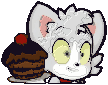
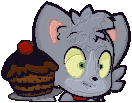
Nuevo combate: barra de vida, 3 armas + especial, chocolate; contornos 3D; Acenix gris
Claude-Session: https://claude.ai/code/session_01Sh1EJeb8KRc9zvzZMBH78N

diff --git a/mike-juego/js/game.js b/mike-juego/js/game.js
@@ -18,12 +18,27 @@ const S = {
   fade: 0, fadeAnim: null, shake: 0, hitstop: 0, cam: { x: 0, y: 0 }, boss: null, bossLock: false,
   bossStarted: false, gateOpen: false, gotLetter: false, checkpoint: [0, 0], hint: '', hintT: 0, willy: null,
   leaving: false, nearNpc: null, bossDefeated: false, stepT: 0, keys: [0, 0, 0],
-  q: { gotLetters: false, delivered: {}, count: 0, total: 7, done: false, trainStarted: false }, fav: {}, flags: {}, wave: null, camShot: null
+  q: { gotLetters: false, delivered: {}, count: 0, total: 7, done: false, trainStarted: false }, fav: {}, flags: {}, wave: null, camShot: null, shots: []
 };
 const P = {
-  x: 0, y: 0, hw: 10, hh: 12, vx: 0, vy: 0, dx: 0, dy: 1, face: 1, hp: 5, maxHp: 5, inv: 0,
+  x: 0, y: 0, hw: 10, hh: 12, vx: 0, vy: 0, dx: 0, dy: 1, face: 1, hp: 100, maxHp: 100, inv: 0, sel: 0, chocoCd: 0, dmgMul: 1, special: false, kills: 0, pend: 0, atkMax: .26,
   atk: 0, atkCd: 0, adx: 0, ady: 1, hitSet: new Set(), anim: 0, moving: false, dead: false, hitWall: false
 };
+const WEAPONS = {
+  dagger: { id: 'dagger', name: 'Dagas', icon: '🗡', type: 'CORTA', dmg: .5, cd: .17, anim: .17, wind: .05, reach: 30, R: 40 },
+  hammer: { id: 'hammer', name: 'Martillo', icon: '🔨', type: 'PESADA', dmg: 3, cd: 1.0, anim: .55, wind: .3, reach: 42, R: 64, heavy: true },
+  bow: { id: 'bow', name: 'Arco', icon: '🏹', type: 'LARGA', dmg: 1, cd: .5, anim: .25, wind: .08, ranged: true, speed: 560, life: 1.1 },
+  star: { id: 'star', name: 'Cetro Estelar', icon: '✨', type: 'ESPECIAL', dmg: 1.3, cd: .6, anim: .3, wind: .08, ranged: true, spread: 3, pierce: true, speed: 470, life: 1.3 }
+};
+const WSLOTS = () => P.special ? ['dagger', 'hammer', 'bow', 'star'] : ['dagger', 'hammer', 'bow'];
+const curW = () => WEAPONS[WSLOTS()[Math.min(P.sel, WSLOTS().length - 1)]];
+const CHOCO_CD = 30;
+function selectW(i) { if (i < 0 || i >= WSLOTS().length || i === P.sel) return; P.sel = i; sfx.select(); floater(P.x - 30, P.y - 80, curW().icon + ' ' + curW().name, '#ffe14a'); }
+function useChoco() {
+  if (P.chocoCd > 0 || P.dead || S.busy) return;
+  if (P.hp >= P.maxHp) { floater(P.x - 40, P.y - 70, '¡Vida llena!', '#fff'); return; }
+  P.hp = P.maxHp; P.chocoCd = CHOCO_CD; sfx.heal(); spawnP(P.x, P.y - 30, 26, '#8a4a22', 200, 1); spawnP(P.x, P.y - 30, 14, '#ffd24a', 160, 1); floater(P.x - 50, P.y - 70, '¡Chocolate! 100%', '#ffb070');
+}
 const pbody = () => ({ x: P.x, y: P.y - 22 });
 
 // ---------- Promesas de tiempo / diálogo (para cinemáticas) ----------
@@ -145,7 +160,7 @@ function spawnEnts(L) {
 const ebody = e => ({ x: e.x, y: e.y - (e.bh || 20) });
 function hurtPlayer(n, fx, fy) {
   if (P.inv > 0 || P.dead || S.busy) return;
-  P.hp -= n; P.inv = 1.15;
+  P.hp -= n * 14; P.inv = 1.15;
   const a = Math.atan2(P.y - fy, P.x - fx); P.vx = Math.cos(a) * 300; P.vy = Math.sin(a) * 300;
   S.shake = .25; S.hitstop = .07; sfx.hurt();
   spawnP(P.x, P.y - 20, 12, '#ff4a5a', 220);
@@ -153,16 +168,17 @@ function hurtPlayer(n, fx, fy) {
 }
 function healPlayer() { P.hp = P.maxHp; sfx.heal(); spawnP(P.x, P.y - 30, 18, '#ff7aa8', 160, .9); floater(P.x - 20, P.y - 60, '¡Pastel! ♥', '#ff9ac0'); }
 
-function hitEnt(e) {
+function hitEnt(e, dmg = 1) {
   sfx.hit();
   if (e.type === 'dummy') { e.hit = .3; floater(e.x - 20, e.y - 70, ['¡Auch!', '¡Oye!', '¡Pum!', '¿Por qué?'][Math.floor(rnd(0, 4))], '#ffe14a'); spawnP(e.x, e.y - 24, 8, '#c9a15a'); return; }
-  e.hp--; e.flash = .14;
+  e.hp -= dmg * P.dmgMul; e.flash = .14; floater(e.x - 8, e.y - (e.bh || 20) - 26, '' + Math.round(dmg * P.dmgMul * 20), '#fff');
   const a = Math.atan2(e.y - P.y, e.x - P.x); e.vx = Math.cos(a) * 300; e.vy = Math.sin(a) * 300;
   const c = ebody(e);
   spawnP(c.x, c.y, 10, e.type === 'slime' ? '#7dff8a' : '#c26aff', 200);
   if (e.hp <= 0) {
     e.dead = true; spawnP(c.x, c.y, 20, '#fff', 260); sfx.poof();
     if (Math.random() < .28) S.ents.push({ type: 'heart', x: e.x, y: e.y - 10, t: 0 });
+    P.kills++; if (!P.special && P.kills >= 5) { P.special = true; sfx.key(); S.shake = .12; spawnP(P.x, P.y - 30, 30, '#ffe14a', 280, 1); floater(P.x - 70, P.y - 90, '¡ARMA ESPECIAL: Cetro Estelar!', '#ffe14a'); showHint('¡Nueva arma especial! Cámbiala con ARMA (tecla Q o 4)', 5); }
   }
 }
 function updateEnt(e, dt) {
@@ -222,24 +238,24 @@ function updateEnt(e, dt) {
         spawnP(e.x, e.y, 22, '#7df3ff', 280, .8);
         floater(e.x - 50, e.y - 40, '+1 DIAMANTE  ' + S.dia + '/' + S.lvl.diaNeed, '#7df3ff');
         if (S.dia >= S.lvl.diaNeed && S.lvlId === 1) showHint('¡Tienes los 3 diamantes! Ve a la puerta del salón →', 3.5);
-      } else if (P.hp < P.maxHp) { e.dead = true; P.hp++; sfx.heal(); floater(e.x, e.y - 30, '♥', '#ff7aa8'); }
+      } else if (P.hp < P.maxHp) { e.dead = true; P.hp = Math.min(P.maxHp, P.hp + 20); sfx.heal(); floater(e.x, e.y - 30, '+20%', '#ff7aa8'); }
     }
   } else if (e.type === 'dummy') { e.hit = Math.max(0, e.hit - dt); }
 }
 
 // ---------- Jugador ----------
-function doAttack() {
-  const p = P, L = S.lvl, reach = 34, R = 46;
+function doAttack(w) {
+  const p = P, L = S.lvl, reach = w.reach, R = w.R; if (w.heavy) { S.shake = .22; spawnP(p.x + p.adx * reach, p.y - 4, 14, '#cfa86a', 240, .6); sfx.slam(); }
   const cx = p.x + p.adx * reach, cy = p.y - 22 + p.ady * reach;
   let any = false;
   for (const e of S.ents) {
     if (e.dead || !(e.type === 'slime' || e.type === 'flyer' || e.type === 'dummy') || p.hitSet.has(e)) continue;
     const c = e.type === 'flyer' ? { x: e.x, y: e.y - e.z } : ebody(e);
-    if (dist(cx, cy, c.x, c.y) < R + e.rad) { p.hitSet.add(e); hitEnt(e); any = true; }
+    if (dist(cx, cy, c.x, c.y) < R + e.rad) { p.hitSet.add(e); hitEnt(e, w.dmg); any = true; }
   }
   const b = S.boss;
   if (b && !b.dead && b.state !== 'saved' && b.state !== 'idle' && !p.hitSet.has(b)) {
-    if (dist(cx, cy, b.x, b.y - 46) < R + 48) { p.hitSet.add(b); hitBoss(); any = true; }
+    if (dist(cx, cy, b.x, b.y - 46) < R + 48) { p.hitSet.add(b); hitBoss(w.dmg); any = true; }
   }
   const tx0 = Math.floor((cx - R) / T), tx1 = Math.floor((cx + R) / T), ty0 = Math.floor((cy - R) / T), ty1 = Math.floor((cy + R) / T);
   for (let ty = ty0; ty <= ty1; ty++) for (let tx = tx0; tx <= tx1; tx++) {
@@ -253,22 +269,45 @@ function doAttack() {
   }
   if (any) { S.hitstop = .05; p.vx -= p.adx * 60; p.vy -= p.ady * 60; }
 }
+function fireShot(w) {
+  const p = P, n = w.spread || 1, a0 = Math.atan2(p.ady, p.adx); sfx.whoosh();
+  for (let i = 0; i < n; i++) { const a = a0 + (i - (n - 1) / 2) * .3; S.shots.push({ x: p.x + Math.cos(a) * 18, y: p.y + Math.sin(a) * 18, z: 24, vx: Math.cos(a) * w.speed, vy: Math.sin(a) * w.speed, dmg: w.dmg, pierce: !!w.pierce, life: w.life, star: w.id === 'star', hit: new Set() }); }
+}
+function updateShots(dt) {
+  const L = S.lvl;
+  for (let i = S.shots.length - 1; i >= 0; i--) {
+    const q = S.shots[i]; q.x += q.vx * dt; q.y += q.vy * dt; q.life -= dt; let gone = q.life <= 0;
+    const bx = q.x, by = q.y - q.z;
+    if (!gone && solidCh(L.get(Math.floor(q.x / T), Math.floor(q.y / T)))) { gone = true; spawnP(q.x, q.y - q.z, 6, '#fff', 120); }
+    if (!gone) for (const e of S.ents) {
+      if (e.dead || !(e.type === 'slime' || e.type === 'flyer' || e.type === 'dummy') || q.hit.has(e)) continue;
+      const c = e.type === 'flyer' ? { x: e.x, y: e.y - e.z } : ebody(e);
+      if (dist(bx, by, c.x, c.y) < 18 + e.rad) { q.hit.add(e); hitEnt(e, q.dmg); if (!q.pierce) { gone = true; break; } }
+    }
+    const b = S.boss;
+    if (!gone && b && !b.dead && b.state !== 'saved' && b.state !== 'idle' && !q.hit.has(b) && dist(bx, by, b.x, b.y - 46) < 18 + 48) { q.hit.add(b); hitBoss(q.dmg); if (!q.pierce) gone = true; }
+    if (gone) S.shots.splice(i, 1);
+  }
+}
 function updatePlayer(dt) {
   const p = P, L = S.lvl;
   if (p.dead) return;
-  p.inv = Math.max(0, p.inv - dt); p.atkCd = Math.max(0, p.atkCd - dt);
-  p.anim += dt; p.lowT = (p.lowT || 0) - dt; if (p.hp === 1 && p.lowT <= 0) { p.lowT = 1.4; sfx.low(); }
+  p.inv = Math.max(0, p.inv - dt); p.atkCd = Math.max(0, p.atkCd - dt); p.chocoCd = Math.max(0, p.chocoCd - dt);
+  if (wasPressed('KeyQ')) { const n = WSLOTS().length; selectW((P.sel + 1) % n); } for (let i = 0; i < 4; i++) if (wasPressed('Digit' + (i + 1))) selectW(i);
+  if (wasPressed('KeyR', 'KeyH')) useChoco();
+  p.anim += dt; p.lowT = (p.lowT || 0) - dt; if (p.hp < 25 && p.lowT <= 0) { p.lowT = 1.4; sfx.low(); }
   const [ix, iy] = getMove(), il = Math.hypot(ix, iy);
   p.moving = il > 0.05;
   if (p.moving && p.atk <= 0) { const nx = ix / il, ny = iy / il; p.dx = nx; p.dy = ny; if (Math.abs(nx) > .3) p.face = sign(nx); }
   const sp = (p.atk > .12 ? SPEED * .6 : SPEED), acc = 5200 * dt;
   p.vx = approach(p.vx, ix * sp, acc); p.vy = approach(p.vy, iy * sp, acc);
   if (wasPressed(K.atk) && p.atkCd <= 0) {
-    p.atk = .26; p.atkCd = .3; p.hitSet = new Set(); sfx.swing();
+    const w = curW(); p.atk = p.atkMax = w.anim; p.atkCd = w.cd; p.hitSet = new Set(); p.pend = w.wind; p.wcur = w; sfx.swing();
     p.adx = p.dx; p.ady = p.dy; if (p.adx === 0 && p.ady === 0) p.ady = 1;
     if (Math.abs(p.adx) > .3) p.face = sign(p.adx);
   }
-  if (p.atk > 0) { p.atk -= dt; if (p.atk < .2 && p.atk > .08) doAttack(); }
+  if (p.pend > 0) { p.pend -= dt; if (p.pend <= 0) { if (p.wcur.ranged) fireShot(p.wcur); else doAttack(p.wcur); } }
+  if (p.atk > 0) p.atk -= dt;
   moveBody(L, p, dt);
   S.stepT -= dt;
   if (p.moving && S.stepT <= 0) { S.stepT = .24; sfx.step(); S.particles.push({ x: p.x + rnd(-4, 4), y: p.y - 1, vx: rnd(-10, 10), vy: rnd(-10, 10), life: .35, max: .35, color: S.lvl.theme === 'dream' ? '#9a8cf0' : '#cfa86a', size: 4 }); }
@@ -289,7 +328,7 @@ async function killPlayer() {
 function respawn() {
   P.hp = P.maxHp; P.dead = false; P.inv = 1; P.vx = P.vy = 0;
   P.x = S.checkpoint[0]; P.y = S.checkpoint[1];
-  S.proj = []; S.warns = [];
+  S.proj = []; S.warns = []; S.shots = []; P.chocoCd = 0;
   if (S.bossStarted && S.boss && !S.boss.dead && S.boss.state !== 'saved') { S.boss = makeBoss(); S.boss.state = 'walk'; S.boss.t = 1.2; }
   initWilly(); updateCamera(0, true);
 }
@@ -321,10 +360,10 @@ function makeBoss() {
     face: -1, flash: 0, phase: 1, count: 0, anim: 0, dead: false, fired: false, rain: 0, zzz: 0, lift: 0, ox: 0, oy: 0, tx: 0, ty: 0, hitWall: false
   };
 }
-function hitBoss() {
+function hitBoss(dm = 1) {
   const b = S.boss; if (!b || b.dead) return;
-  let d = 1; const sleeping = b.state === 'sleep';
-  if (sleeping) { d = 2; floater(b.x - 10, b.y - 120, '¡x2!', '#7df3ff'); }
+  let d = dm * P.dmgMul; const sleeping = b.state === 'sleep';
+  if (sleeping) { d *= 2; floater(b.x - 10, b.y - 120, '¡x2!', '#7df3ff'); }
   b.hp -= d; b.flash = .14; sfx.hit(); S.shake = .1;
   spawnP(b.x, b.y - 50, 12, '#fff', 260);
   if (b.hp <= 0) { b.hp = 0; defeatBoss(); return; }
@@ -452,7 +491,7 @@ function updateCamera(dt, snap) {
 }
 function loadLevel(id) {
   S.lvlId = id; const L = S.lvl = LEVELS[id](); { const v = verifyLevel(L); if (!v.ok) console.warn('Nivel imposible:', v.missing.join(' ')); }
-  spawnEnts(L); S.proj = []; S.warns = []; S.particles = []; S.floaters = []; L.seen = new Uint8Array(L.w * L.h); minimapReset();
+  spawnEnts(L); S.shots = []; S.proj = []; S.warns = []; S.particles = []; S.floaters = []; L.seen = new Uint8Array(L.w * L.h); minimapReset();
   S.keys = [0, 0, 0]; S.dia = 0; S.boss = null; S.bossLock = false; S.bossStarted = false; S.gateOpen = false; S.hint = ''; S.hintT = 0; S.bossDefeated = false;
   P.x = (L.start[0] + .5) * T; P.y = (L.start[1] + 1) * T - 8;
   P.vx = P.vy = 0; P.hp = P.maxHp; P.inv = 0; P.dead = false; P.dx = 0; P.dy = 1; P.face = 1; P.atk = 0;
@@ -541,7 +580,7 @@ function update(dt) {
   updateWilly(dt);
   for (const e of S.ents) updateEnt(e, dt);
   S.ents = S.ents.filter(e => !e.dead);
-  updateBoss(dt); updateProj(dt); updateWave(dt); updateFx(dt);
+  updateBoss(dt); updateProj(dt); updateShots(dt); updateWave(dt); updateFx(dt);
   S.nearNpc = nearestNpc();
   if (S.nearNpc && wasPressed(K.talk)) talkNpc(S.nearNpc);
   checkTriggers();

diff --git a/mike-juego/js/sync3d.js b/mike-juego/js/sync3d.js
@@ -33,7 +33,12 @@ function makeKey(k) {
   const gl = new THREE.Mesh(new THREE.PlaneGeometry(2.2, 2.2), new THREE.MeshBasicMaterial({ map: glowTex(['rgba(255,170,90,.9)', 'rgba(200,215,255,.9)', 'rgba(255,220,80,.9)'][k]), transparent: true, blending: THREE.AdditiveBlending, depthWrite: false })); gl.userData.billboard = true; g.add(gl); return { group: g, spin: pivot };
 }
 function wrapOuter(B) { const g = new THREE.Group(); g.add(B.g); B.outer = g; B.group = g; return B; }
-function makeCharObj(id, seed) { return wrapOuter(makeChar(id, seed)); }
+const OUTM = typeof THREE !== 'undefined' ? new THREE.MeshBasicMaterial({ color: 0x120a1e, side: THREE.BackSide }) : null;
+function addOutline(g) {
+  const list = []; g.traverse(m => { if (m.isMesh && m.geometry && m.geometry.type === 'BoxGeometry' && !m.userData.ol) list.push(m); });
+  for (const m of list) { const p = m.geometry.parameters, o = new THREE.Mesh(m.geometry, OUTM); o.userData.ol = 1; o.scale.set(1 + .09 / p.width, 1 + .09 / p.height, 1 + .09 / p.depth); m.add(o); }
+}
+function makeCharObj(id, seed) { const B = makeChar(id, seed); if (B.g) addOutline(B.g); return wrapOuter(B); }
 
 const PCOL = {};
 function pcol(s) { if (PCOL[s]) return PCOL[s]; const c = new THREE.Color(s); return PCOL[s] = [c.r, c.g, c.b]; }
@@ -84,6 +89,13 @@ function glSync(dt) {
     o.outer.scale.y = (b.state === 'slam' && b.lift === 0 && b.t > .77) ? .88 : 1; animChar(o, t, Math.hypot(b.vx, b.vy) > 10 ? .8 : 0, { talk: S.dialog && S.dialog.who === 'timba' }); setFlash(o, b.flash > 0);
     o.outer.rotation.z = sleep ? Math.sin(t * 2) * .05 : 0;
   }
+  // ---- disparos del jugador
+  GL.shotObjs = GL.shotObjs || []; let si = 0;
+  for (const q of S.shots) {
+    let o = GL.shotObjs[si]; if (!o) { o = new THREE.Group(); o.add(mesh(geoBox(.12, .12, .8), new THREE.MeshBasicMaterial({ color: 0xfff0b0 }), 0, 0, 0, false), mesh(geoBox(.3, .3, .3), new THREE.MeshBasicMaterial({ color: 0xffffff }), 0, 0, .5, false)); GL.lvlGroup.add(o); GL.shotObjs.push(o); }
+    o.visible = true; o.position.set(q.x / T, q.z / T, q.y / T); o.rotation.y = Math.atan2(q.vx, q.vy); o.children[0].material.color.set(q.star ? 0xffe14a : 0xfff0b0); o.rotation.z = q.star ? t * 12 : 0; si++;
+  }
+  for (; si < GL.shotObjs.length; si++) GL.shotObjs[si].visible = false;
   // ---- proyectiles y avisos
   for (const q of S.proj) {
     if (q.type === 'pillow') { const o = glGet(q, () => { const g = new THREE.Group(); g.add(mesh(geoBox(.7, .4, .5), lam(0xffffff, { emissive: 0x444466 }), 0, 0, 0), mesh(geoBox(.72, .12, .52), lam(0x9ad0ff), 0, 0, 0)); return { group: g }; }); gp(o, q.x, q.z / T * 1.1 + .4, q.y); o.group.rotation.set(q.rot, q.rot * .7, 0); }
@@ -102,7 +114,8 @@ function glSync(dt) {
   if (!P.dead) {
     pl.outer.visible = !(P.inv > 0 && Math.floor(P.inv * 18) % 2 === 0); pl.outer.position.set(P.x / T, 0, P.y / T);
     const aim = P.atk > 0 ? Math.atan2(P.adx, P.ady) : Math.atan2(P.dx, P.dy); pl.outer.rotation.y = yawTo(pl.outer.rotation.y, aim, P.atk > 0 ? .5 : .28);
-    const k = P.atk > 0 ? 1 - P.atk / .26 : null; animChar(pl, P.anim * 1.25, P.moving ? 1 : 0, { atk: k, talk: S.dialog && S.dialog.who === 'mike' });
+    if (pl.parts.wm) { const wid = curW().id; for (const k2 in pl.parts.wm) pl.parts.wm[k2].visible = k2 === wid; pl.parts.wm.dagger.scale.setScalar(.6); }
+    const k = P.atk > 0 && !curW().ranged ? 1 - P.atk / (P.atkMax || .26) : null; animChar(pl, P.anim * 1.25, P.moving ? 1 : 0, { atk: k, talk: S.dialog && S.dialog.who === 'mike' });
     pl.slash.position.set(P.x / T, .9, P.y / T); pl.slash.rotation.z = Math.atan2(-P.ady, P.adx); pl.slash.material.opacity = k != null ? Math.sin(clamp(k, 0, 1) * Math.PI) * .75 : 0; pl.slash.visible = k != null;
   } else { pl.outer.visible = false; pl.slash.visible = false; }
   for (const [key, o] of GL.objs) if (!o.seen && key !== 'player') { GL.root.remove(o.group || o.outer); GL.objs.delete(key); }

diff --git a/mike-juego/js/render.js b/mike-juego/js/render.js
@@ -538,8 +538,29 @@ function panel(x, y, w, h) {
 }
 function drawHUD() {
   const L = S.lvl;
-  panel(12, 12, 20 + P.maxHp * 34, 46);
-  for (let i = 0; i < P.maxHp; i++) ctx.drawImage(i < P.hp ? HEART_F : HEART_E, 24 + i * 34, 22);
+  { // barra de vida (porcentaje)
+    panel(12, 12, 290, 46); const pc = Math.max(0, P.hp / P.maxHp), bw = 200;
+    ctx.fillStyle = '#1a1020'; ctx.fillRect(66, 24, bw + 4, 22); ctx.fillStyle = '#3a2a3a'; ctx.fillRect(68, 26, bw, 18);
+    const gr = ctx.createLinearGradient(68, 0, 68 + bw, 0); gr.addColorStop(0, pc > .5 ? '#4ae860' : pc > .25 ? '#ffd24a' : '#ff4a5a'); gr.addColorStop(1, pc > .5 ? '#a8ff7a' : pc > .25 ? '#ffe98a' : '#ff8a8a');
+    ctx.fillStyle = gr; ctx.fillRect(68, 26, bw * pc, 18); ctx.fillStyle = 'rgba(255,255,255,.35)'; ctx.fillRect(68, 26, bw * pc, 5);
+    if (P.hp < 25 && Math.floor(S.t * 6) % 2) { ctx.strokeStyle = '#ff4a5a'; ctx.lineWidth = 3; ctx.strokeRect(66, 24, bw + 4, 22); }
+    txt('VIDA', 22, 27, { size: 16, color: '#ffe14a' }); txt(Math.round(pc * 100) + '%', 68 + bw / 2, 27, { size: 16, align: 'center' });
+  }
+  { // armas y chocolate
+    const ws = WSLOTS(), sw = 62, gap = 8, tot = ws.length * sw + (ws.length - 1) * gap + sw + 26, x0 = W / 2 - tot / 2, y0 = H - 82;
+    ws.forEach((id, i) => {
+      const w = WEAPONS[id], x = x0 + i * (sw + gap), sel = i === Math.min(P.sel, ws.length - 1);
+      ctx.fillStyle = sel ? 'rgba(255,225,74,.95)' : 'rgba(20,12,40,.82)'; rrect(x, y0, sw, sw, 10); ctx.fill(); ctx.strokeStyle = sel ? '#fff' : 'rgba(255,255,255,.5)'; ctx.lineWidth = 3; rrect(x + 1.5, y0 + 1.5, sw - 3, sw - 3, 9); ctx.stroke();
+      ctx.font = '28px sans-serif'; ctx.textAlign = 'center'; ctx.textBaseline = 'middle'; ctx.fillStyle = '#fff'; ctx.fillText(w.icon, x + sw / 2, y0 + 26);
+      txt(w.type, x + sw / 2, y0 + 44, { size: 10, align: 'center', color: sel ? '#3a1a00' : '#ffe14a', outline: false }); txt(String(i + 1), x + 6, y0 + 4, { size: 11, color: sel ? '#3a1a00' : '#aaa', outline: false });
+      if (sel && P.atkCd > 0) { ctx.fillStyle = 'rgba(0,0,0,.5)'; ctx.fillRect(x + 3, y0 + 3, sw - 6, (sw - 6) * Math.min(1, P.atkCd / w.cd)); }
+    });
+    const cx = x0 + ws.length * (sw + gap) + 26, ready = P.chocoCd <= 0;
+    ctx.fillStyle = ready ? 'rgba(122,70,34,.95)' : 'rgba(20,12,40,.82)'; rrect(cx, y0, sw, sw, 10); ctx.fill(); ctx.strokeStyle = ready ? '#ffd24a' : 'rgba(255,255,255,.5)'; ctx.lineWidth = 3; rrect(cx + 1.5, y0 + 1.5, sw - 3, sw - 3, 9); ctx.stroke();
+    ctx.font = '28px sans-serif'; ctx.textAlign = 'center'; ctx.textBaseline = 'middle'; ctx.fillStyle = '#fff'; ctx.fillText('🍫', cx + sw / 2, y0 + 26);
+    if (!ready) { ctx.fillStyle = 'rgba(0,0,0,.55)'; ctx.fillRect(cx + 3, y0 + 3, sw - 6, (sw - 6) * (P.chocoCd / CHOCO_CD)); txt(Math.ceil(P.chocoCd) + 's', cx + sw / 2, y0 + 20, { size: 18, align: 'center' }); }
+    txt(ready ? 'LISTO' : 'CURA', cx + sw / 2, y0 + 44, { size: 10, align: 'center', color: '#ffe14a', outline: false }); txt('R', cx + 6, y0 + 4, { size: 11, color: '#ddd', outline: false });
+  }
   if (S.keys && (S.keys.some(k => k > 0) || L.ents.some(e => e.type === 'key') || S.ents.some(e => e.type === 'key'))) {
     panel(12, 64, 150, 38);
     ['#e0a060', '#dfe6ff', '#ffd24a'].forEach((c, i) => {

diff --git a/mike-juego/js/chars3d.js b/mike-juego/js/chars3d.js
@@ -97,7 +97,11 @@ function catBiped(o) {
 }
 // ---------- diseño de cada personaje ----------
 const CHAR_DEF = {
-  mike: () => dogBiped({ fur: '#ffc800', fur2: '#ff9a00', ear: '#f0b400', cape: '#1a9a8a', mark: '#d09000', face: { skin: '#ffc800', eyes: 'dog', ey: 12, ex: 7, mouth: 'open', paint: R => { R(11, 18, 10, 10, '#ffe480'); R(13, 18, 6, 4, '#1a1020'); R(12, 17, 8, 1, '#1a1020'); } }, extras: (B, p) => { const sw = new THREE.Group(); sw.position.set(0, -.74, .1); B.bx(sw, .1, .1, .22, '#6b3a1a', 0, 0, 0, false); B.bx(sw, .34, .08, .08, '#666', 0, 0, .14, false); const bl = B.bx(sw, .1, .08, 1.1, new THREE.MeshLambertMaterial({ color: 0x3fe0f5, emissive: 0x2ab8d8, emissiveIntensity: .8 }), 0, 0, .74, false); p.sword = sw; sw.rotation.x = -1.1; p.armR.add(sw); } }),
+  mike: () => dogBiped({ fur: '#ffc800', fur2: '#ff9a00', ear: '#f0b400', cape: '#1a9a8a', mark: '#d09000', face: { skin: '#ffc800', eyes: 'dog', ey: 12, ex: 7, mouth: 'open', paint: R => { R(11, 18, 10, 10, '#ffe480'); R(13, 18, 6, 4, '#1a1020'); R(12, 17, 8, 1, '#1a1020'); } }, extras: (B, p) => { const sw = new THREE.Group(); sw.position.set(0, -.74, .1); B.bx(sw, .1, .1, .22, '#6b3a1a', 0, 0, 0, false); B.bx(sw, .34, .08, .08, '#666', 0, 0, .14, false); const bl = B.bx(sw, .1, .08, 1.1, new THREE.MeshLambertMaterial({ color: 0x3fe0f5, emissive: 0x2ab8d8, emissiveIntensity: .8 }), 0, 0, .74, false); p.sword = sw; sw.rotation.x = -1.1; p.armR.add(sw);
+    const hm = new THREE.Group(); hm.position.set(0, -.74, .1); B.bx(hm, .12, .12, 1.0, '#6b3a1a', 0, 0, .5, false); B.bx(hm, .5, .5, .8, '#8a8a9a', 0, 0, 1.15, true); B.bx(hm, .54, .54, .16, '#ffd24a', 0, 0, 1.15, false); B.bx(hm, .2, .2, .2, new THREE.MeshLambertMaterial({ color: 0x3fe0f5, emissive: 0x2ab8d8, emissiveIntensity: .9 }), 0, 0, 1.6, false); hm.rotation.x = -1.1; hm.visible = false; p.armR.add(hm);
+    const bw = new THREE.Group(); bw.position.set(0, -.74, .25); for (let i = -2; i <= 2; i++) B.bx(bw, .08, .3, .08, '#7a4a2a', 0, i * .26, Math.abs(i) * .1 * -1 + .1, false); B.bx(bw, .02, 1.2, .02, '#e8e8f0', 0, 0, -.12, false); bw.rotation.y = 0; bw.visible = false; p.armR.add(bw);
+    const sc = new THREE.Group(); sc.position.set(0, -.74, .1); B.bx(sc, .1, .1, 1.0, '#c0a0ff', 0, 0, .5, false); const gem = B.bx(sc, .3, .3, .3, new THREE.MeshLambertMaterial({ color: 0xffe14a, emissive: 0xffc000, emissiveIntensity: 1 }), 0, 0, 1.1, false); gem.rotation.set(.6, .6, 0); sc.rotation.x = -1.1; sc.visible = false; p.armR.add(sc);
+    p.wm = { dagger: sw, hammer: hm, bow: bw, star: sc }; } }),
   exe: () => dogBiped({ fur: '#f2c230', fur2: '#c89a20', ear: '#d6a820', cape: '#c01830', belly: '#fff', face: { skin: '#f2c230', eyes: 'red', ey: 12, ex: 7, mouth: 'teeth', paint: R => { R(2, 4, 8, 2, '#1a1020'); R(22, 4, 8, 2, '#1a1020'); } }, scale: .8, extras: (B, p) => { B.bx(p.armR, .34, .3, .36, '#f4f4f4', 0, -.4, 0); B.bx(p.legL, .4, .22, .42, '#f4f4f4', 0, -.2, 0); B.bx(B.g, .9, .14, .56, '#d02040', 0, 1.3, 0); } }),
   willy: () => {
     const B = CB(), { g, parts, bx, pv } = B, f = '#3c3f50';

diff --git a/mike-juego/js/render3d.js b/mike-juego/js/render3d.js
@@ -6,7 +6,7 @@ function initGL() {
   try {
     if (!V3) return; const canvas = document.getElementById('gl'); if (!canvas) return;
     const r = new THREE.WebGLRenderer({ canvas, antialias: false, powerPreference: 'high-performance' });
-    r.setPixelRatio(1); r.setSize(Math.round(W * .6667), Math.round(H * .6667), false); r.shadowMap.enabled = true; r.shadowMap.type = THREE.PCFShadowMap;
+    r.setPixelRatio(1); r.setSize(Math.round(W * .6667), Math.round(H * .6667), false); r.toneMapping = THREE.ACESFilmicToneMapping; r.toneMappingExposure = .92; r.shadowMap.enabled = true; r.shadowMap.type = THREE.PCFShadowMap;
     GL.r = r; GL.scene = new THREE.Scene(); GL.cam = new THREE.PerspectiveCamera(38, W / H, .1, 220);
     GL.root = new THREE.Group(); GL.scene.add(GL.root);
     GL.amb = new THREE.AmbientLight(0xffffff, 1); GL.hemi = new THREE.HemisphereLight(0xbfe0ff, 0x4a6a3a, .5);
@@ -45,7 +45,7 @@ function labelCanvas(text, bg, fg) {
 // ---------- construcción del nivel ----------
 function glClearLevel() {
   if (GL.lvlGroup) { GL.scene.remove(GL.lvlGroup); GL.lvlGroup.traverse(o => { if (o.isInstancedMesh) o.dispose(); }); }
-  for (const [k, o] of GL.objs) GL.root.remove(o.group); GL.objs.clear(); GL.dyn = [];
+  for (const [k, o] of GL.objs) GL.root.remove(o.group); GL.objs.clear(); GL.dyn = []; GL.shotObjs = [];
 }
 function glBuildLevel(L) {
   if (!GL.ok) return; glClearLevel(); GL.lvlRef = L; GL.trainX = 0; GL.exeShow = 0; GL.blds = [];
@@ -53,7 +53,7 @@ function glBuildLevel(L) {
   const dm = L.theme === 'dream', texs = TEXS[dm ? 'dream' : 'day'];
   // --- ambiente por tema
   const sc = GL.scene;
-  if (dm) { sc.background = new THREE.Color(0x140e36); sc.fog = new THREE.Fog(0x241a58, 14, 46); GL.amb.color.set(0x8a7ad0); GL.amb.intensity = 1.05; GL.hemi.color.set(0x8a8aff); GL.hemi.groundColor.set(0x2a1a60); GL.hemi.intensity = .45; GL.sun.color.set(0xb4bcff); GL.sun.intensity = 1.5; GL.plight.intensity = 46; GL.plight.color.set(0xffe2b0); }
+  if (dm) { sc.background = new THREE.Color(0x140e36); sc.fog = new THREE.Fog(0x241a58, 14, 46); GL.amb.color.set(0x8a7ad0); GL.amb.intensity = 1.05; GL.hemi.color.set(0x8a8aff); GL.hemi.groundColor.set(0x2a1a60); GL.hemi.intensity = .45; GL.sun.color.set(0xb4bcff); GL.sun.intensity = 1.5; GL.plight.intensity = 26; GL.plight.color.set(0xffe2b0); }
   else { sc.background = new THREE.Color(0x8fd3ff); sc.fog = new THREE.Fog(0xb4e2ff, 34, 100); GL.amb.color.set(0xffffff); GL.amb.intensity = 1.15; GL.hemi.color.set(0xbfe0ff); GL.hemi.groundColor.set(0x5a7a3a); GL.hemi.intensity = .5; GL.sun.color.set(0xfff0d4); GL.sun.intensity = 2.5; GL.plight.intensity = 0; }
   GL.blight.intensity = 0;
   // --- suelo (instanciado por tipo/variante)

diff --git a/mike-juego/style.css b/mike-juego/style.css
@@ -9,11 +9,13 @@ body{display:flex;align-items:center;justify-content:center}
 #joy{position:relative;width:150px;height:150px;border-radius:50%;background:radial-gradient(circle,rgba(255,255,255,.14),rgba(255,255,255,.05));border:3px solid rgba(255,255,255,.55);pointer-events:auto;touch-action:none}
 #joy::before{content:"";position:absolute;inset:34px;border-radius:50%;border:2px dashed rgba(255,255,255,.3)}
 #knob{position:absolute;left:43px;top:43px;width:64px;height:64px;border-radius:50%;background:radial-gradient(circle at 35% 30%,#fff,#b9c3ff 60%,#7a85e0);border:3px solid #fff;box-shadow:0 4px 10px rgba(0,0,0,.45);pointer-events:none}
-#touch .btns{position:relative;width:210px;height:150px;pointer-events:none}
+#touch .btns{position:relative;width:270px;height:170px;pointer-events:none}
 #touch button{position:absolute;border-radius:50%;border:3px solid #fff;color:#1a1020;font:bold 15px "Courier New",monospace;letter-spacing:.5px;pointer-events:auto;touch-action:none;box-shadow:0 5px 12px rgba(0,0,0,.5);opacity:.88}
 #touch button.on{transform:scale(.93);opacity:1;filter:brightness(1.15)}
+#btnWpn{left:92px;bottom:0;width:62px;height:62px;background:radial-gradient(circle at 35% 30%,#fff3b8,#ffc23a);font-size:12px}
+#btnChoc{left:100px;bottom:76px;width:62px;height:62px;background:radial-gradient(circle at 35% 30%,#d9a070,#7a4622);font-size:26px}
 #btnAtk{right:0;bottom:0;width:104px;height:104px;background:radial-gradient(circle at 35% 30%,#ffd0d6,#ff6a82)}
-#btnAct{left:0;bottom:48px;width:84px;height:84px;background:radial-gradient(circle at 35% 30%,#d6fbff,#4fd8ef)}
+#btnAct{left:0;bottom:60px;width:84px;height:84px;background:radial-gradient(circle at 35% 30%,#d6fbff,#4fd8ef)}
 #btnMenu{position:fixed;top:calc(10px + env(safe-area-inset-top,0px));left:50%;margin-left:-22px;width:44px;height:44px;border-radius:12px;border:3px solid #fff;background:rgba(20,14,60,.8);color:#fff;font:bold 22px monospace;z-index:5;opacity:.85;pointer-events:auto}
 
 #touch.hide,#touch.off,#btnMenu.hide{display:none}

diff --git a/mike-juego/js/story.js b/mike-juego/js/story.js
@@ -320,10 +320,10 @@ async function csTimbaSaved() {
   await M('¡Timba! ¡Volviste! ¡Estabas bajo el control de Exe!');
   await say('timba', S.q.delivered.timba ? '¿Yo? Solo recuerdo un sueño muy raro donde lanzaba almohadas... y tu carta. Esa sí la recuerdo. Gracias, Mike.' : '¿Yo? Solo recuerdo un sueño muy raro donde lanzaba almohadas... y fue lo más divertido que hice en años.');
   await say('aquela', 'Las estrellas oscuras te dominaron. Pero Mike restauró tu conciencia.');
-  await say('timba', 'Gracias, Mike. Toma: la Almohada de Estrella. Te hará más fuerte: ¡dos corazones más! Es lo único que tengo... aparte de sueño.');
-  P.maxHp += 2; P.hp = P.maxHp; sfx.win(); S.shake = .1;
+  await say('timba', 'Gracias, Mike. Toma: la Almohada de Estrella. Te hará más fuerte: ¡+25% de daño! Es lo único que tengo... aparte de sueño.');
+  P.dmgMul += .25; P.hp = P.maxHp; P.chocoCd = 0; sfx.win(); S.shake = .1;
   spawnP(P.x, P.y - 30, 34, '#9ad0ff', 300, 1);
-  showHint('¡ALMOHADA DE ESTRELLA!  +2 corazones', 5);
+  showHint('¡ALMOHADA DE ESTRELLA!  +25% de daño', 5);
   await say('timba', 'Yo los ayudo desde tu casa, Mike. Pero antes... ¿alguien tiene un colchón?');
   await M('¡Gracias, Timba! ¡Vamos por los demás!');
   await fadeTo(1, .8);

diff --git a/mike-juego/index.html b/mike-juego/index.html
@@ -13,6 +13,8 @@
   <div class="btns">
     <button id="btnAct" data-k="KeyE">ACTUAR</button>
     <button id="btnAtk" data-k="KeyJ">ATACAR</button>
+    <button id="btnWpn" data-k="KeyQ">ARMA</button>
+    <button id="btnChoc" data-k="KeyR">🍫</button>
   </div>
 </div>
 <button id="btnMenu" aria-label="Menú">☰</button>

diff --git a/mike-juego/README.md b/mike-juego/README.md
@@ -11,7 +11,9 @@ Solo hay **un joystick y dos botones**:
 |---|---|
 | Joystick en pantalla, flechas o `W` `A` `S` `D` | Moverte |
 | Botón **ACTUAR** (`E` o `K`) | Hablar con los personajes y avanzar los diálogos |
-| Botón **ATACAR** (`J`, `X` o `Espacio`) | Usar la espada hacia donde miras |
+| Botón **ATACAR** (`J`, `X` o `Espacio`) | Usar el arma equipada hacia donde miras |
+| Botón **ARMA** (`Q`, o `1`-`4`) | Cambiar de arma: Dagas (corta, rápida), Martillo (pesada), Arco (larga) y Cetro Estelar (especial, se gana derrotando enemigos) |
+| Botón 🍫 (`R`) | Chocolate: restaura toda la vida, se recarga cada 30 s |
 | Botón ☰ o `Esc` | Abrir el menú de pausa |
 
 En el menú puedes ajustar la música y los efectos, ocultar los botones en pantalla, poner pantalla completa y saltar las cinemáticas.
